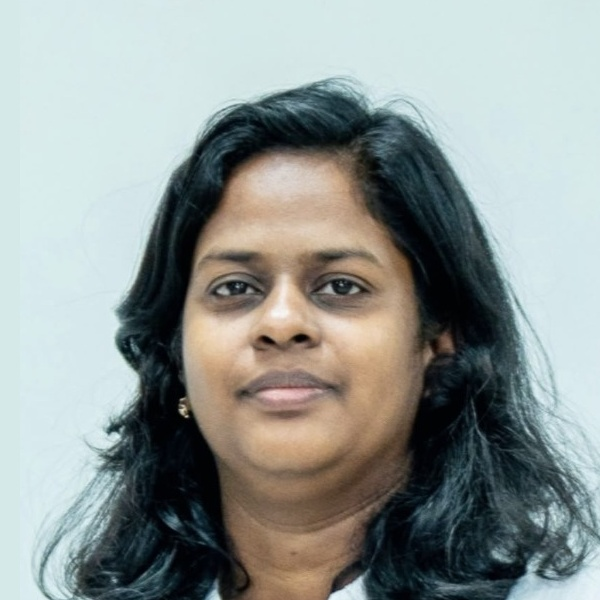
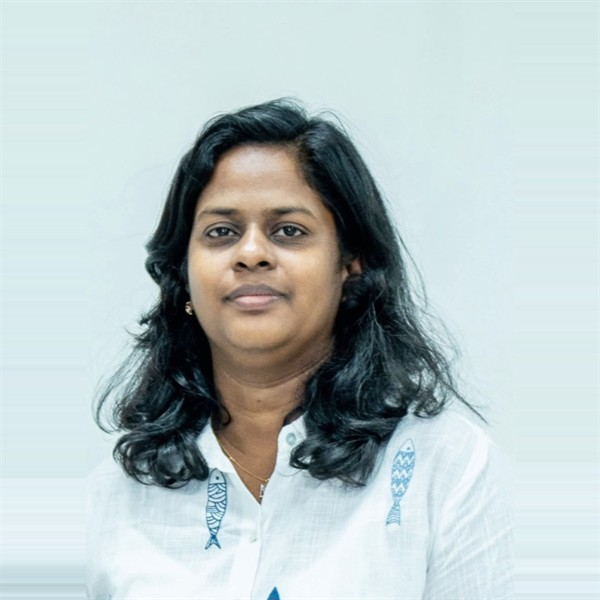
content: update Vikram co-founder bio and unzoom Ragapriya founder photo

diff --git a/admin/src/pages/AboutUsManagement.jsx b/admin/src/pages/AboutUsManagement.jsx
@@ -42,15 +42,23 @@ const defaultData = {
     list: [
       {
         id: 1,
-        name: 'Ramapriya',
-        bio: 'Ramapriya is the visionary founder of Paidhu. Passionate about children\'s nutrition and reclaiming traditional, wholesome foods, her journey began with her own search for healthy, chemical-free, and natural food options for her family. She is committed to making a positive difference in kids\' daily nutrition by introducing sustainable, nutrient-dense, and colorful floral ingredients. Ramapriya holds a strong vision of restoring pure, clean eating habits for the modern generation.',
-        image: '/ramapriya.jpg'
+        name: 'Ragapriya Karunakaran',
+        bio: `As the Founder of Paidhu, I am driven by a vision to redefine how people experience floral-based foods through authenticity, quality, and innovation. At Paidhu, we curate floral foods and value-added products that celebrate the colours, flavours, and culinary possibilities of nature’s finest ingredients.
+
+Our product range includes edible flowers, floral teas, jams, and other distinctive food products.
+
+My entrepreneurial journey and years of experience in the FMCG industry inspired me to build Paidhu on the principles of ethical sourcing, transparency, and customer trust. I contribute to product development, brand growth, and day-to-day operations, working to introduce new products and expand our presence in the floral foods market.
+
+Through Paidhu, I aim to explore new possibilities in edible flowers and floral-based foods, develop innovative value-added products, and bring unique floral ingredients to a wider audience.`,
+        image: '/ragapriya.jpg?v=5'
       },
       {
         id: 2,
         name: 'Vikram AB',
-        bio: 'Vikram is the co-founder of Paidhu, leading product innovation and sustainable sourcing. Driven by a mission to build clean food products, Vikram works closely with local, small-holder farmers to source authentic edible flowers and premium ingredients ethically. He is dedicated to establishing a transparent, fair-trade supply chain that benefits both children\'s health and the local agricultural ecosystem.',
-        image: '/vikram.jpg?v=3'
+        bio: `As the Co-founder of Paidhu Ethical Foods Pvt. Ltd., I contribute to the company’s vision of bringing distinctive floral foods and value-added products to a wider audience. Our focus is on exploring the potential of edible flowers, floral ingredients, and nature-inspired food products while maintaining a strong commitment to quality, authenticity, and responsible sourcing.
+
+Together, we aim to expand the possibilities of floral-based foods through product innovation, ethical sourcing, and a clear focus on customer trust. Our goal is to build a distinctive brand that celebrates the diversity of floral ingredients and introduces unique food experiences to modern consumers.`,
+        image: '/vikram.jpg?v=5'
       }
     ]
   },

diff --git a/frontend/src/components/ui/AboutUsSection.jsx b/frontend/src/components/ui/AboutUsSection.jsx
@@ -16,14 +16,16 @@ Our product range includes edible flowers, floral teas, jams, and other distinct
 My entrepreneurial journey and years of experience in the FMCG industry inspired me to build Paidhu on the principles of ethical sourcing, transparency, and customer trust. I contribute to product development, brand growth, and day-to-day operations, working to introduce new products and expand our presence in the floral foods market.
 
 Through Paidhu, I aim to explore new possibilities in edible flowers and floral-based foods, develop innovative value-added products, and bring unique floral ingredients to a wider audience.`,
-    image: '/ragapriya.jpg?v=4'
+    image: '/ragapriya.jpg?v=5'
   },
   {
     id: 2,
     name: 'Vikram AB',
     role: 'Co-founder',
-    bio: 'As the Co-founder of Paidhu Ethical Foods Pvt. Ltd., I support the company\'s vision of promoting natural wellness through authentic floral and herbal products. I contribute to product development, brand growth, and day-to-day operations while helping strengthen Paidhu\'s commitment to quality, ethical sourcing, and customer trust. Together, we aim to bring nature-inspired wellness products to more people and build a brand that reflects authenticity, sustainability, and care.',
-    image: '/vikram.jpg?v=4'
+    bio: `As the Co-founder of Paidhu Ethical Foods Pvt. Ltd., I contribute to the company’s vision of bringing distinctive floral foods and value-added products to a wider audience. Our focus is on exploring the potential of edible flowers, floral ingredients, and nature-inspired food products while maintaining a strong commitment to quality, authenticity, and responsible sourcing.
+
+Together, we aim to expand the possibilities of floral-based foods through product innovation, ethical sourcing, and a clear focus on customer trust. Our goal is to build a distinctive brand that celebrates the diversity of floral ingredients and introduces unique food experiences to modern consumers.`,
+    image: '/vikram.jpg?v=5'
   }
 ];
 
@@ -302,7 +304,7 @@ const AboutUsSection = () => {
                   className="w-full h-full object-cover"
                   style={{ objectPosition: 'center center' }}
                   onError={(e) => {
-                    e.target.src = founder.name.toLowerCase().includes('vikram') ? '/vikram.jpg?v=4' : '/ragapriya.jpg?v=4';
+                    e.target.src = founder.name.toLowerCase().includes('vikram') ? '/vikram.jpg?v=5' : '/ragapriya.jpg?v=5';
                   }}
                 />
               </div>
